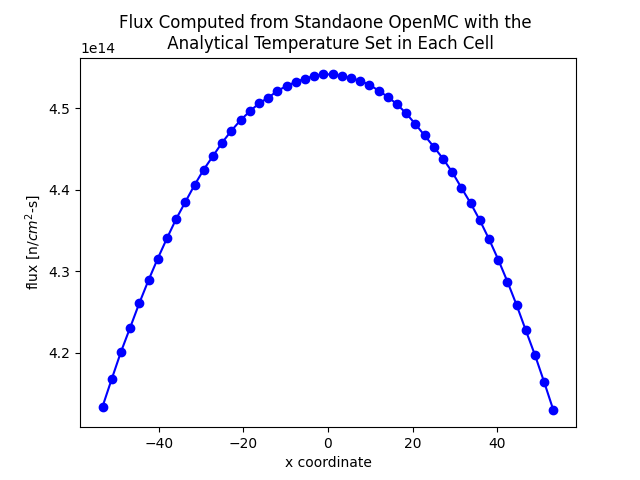
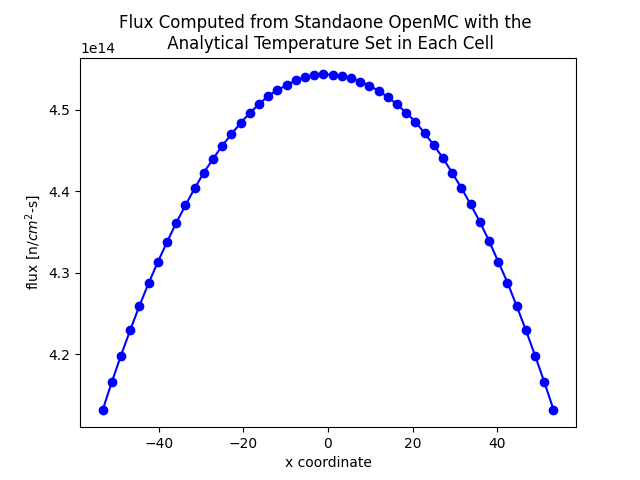
upped particle number. added kappa fission plot, which appears to be right up to statistical variation. flux is still off, which means the normalization formula likely needs adjustment

diff --git a/test_analytic_temp/visualize_results.py b/test_analytic_temp/visualize_results.py
@@ -6,6 +6,7 @@ L = 106.47
 N = 50
 sp = openmc.StatePoint('statepoint.150.h5')
 raw_flux_mesh_tally = sp.get_tally(id=1).get_slice(scores=['flux'])
+raw_kappa_fission_tally = sp.get_tally(id=1).get_slice(scores=['kappa-fission'])
 nu_fission_rate = float(sp.get_tally(id=2).get_slice(scores=['nu-fission']).mean[0])
 fission_rate = float(sp.get_tally(id=2).get_slice(scores=['fission']).mean[0])
 eig = sp.keff.n
@@ -13,10 +14,19 @@ power = sp.get_tally(id=2).get_slice(scores=['kappa-fission']).mean[0]
 voxel_volume = L/N
 source_strength = P*nu_fission_rate/(eig*voxel_volume*float(power))
 flux = raw_flux_mesh_tally * source_strength
+kf = raw_kappa_fission_tally * source_strength
 flux.mean.shape = (N)
+kf.mean.shape = (N)
 xx = np.linspace(-L/2,L/2,N)
 plt.plot(xx,flux.mean,'-bo')
 plt.xlabel("x coordinate")
 plt.ylabel("flux [n/$cm^{2}$-s]")
 plt.title("Flux Computed from Standaone OpenMC with the \n Analytical Temperature Set in Each Cell")
 plt.savefig("flux_temp_analytical.png")
+plt.clf()
+
+plt.plot(xx,kf.mean,'-go')
+plt.xlabel("x coordinate")
+plt.ylabel("kappa fission rate")
+plt.savefig("kappa_fission_temp_analytical.png")
+plt.clf()

diff --git a/test_analytic_temp/make_openmc_model_temp_analytical.py b/test_analytic_temp/make_openmc_model_temp_analytical.py
@@ -101,7 +101,7 @@ mgxs_tallies.export_to_xml()
 settings = openmc.Settings()
 batches = 150
 inactive = 50
-particles = 25000
+particles = 50000
 settings.energy_mode = 'multi-group'
 settings.batches = batches
 settings.inactive = inactive
